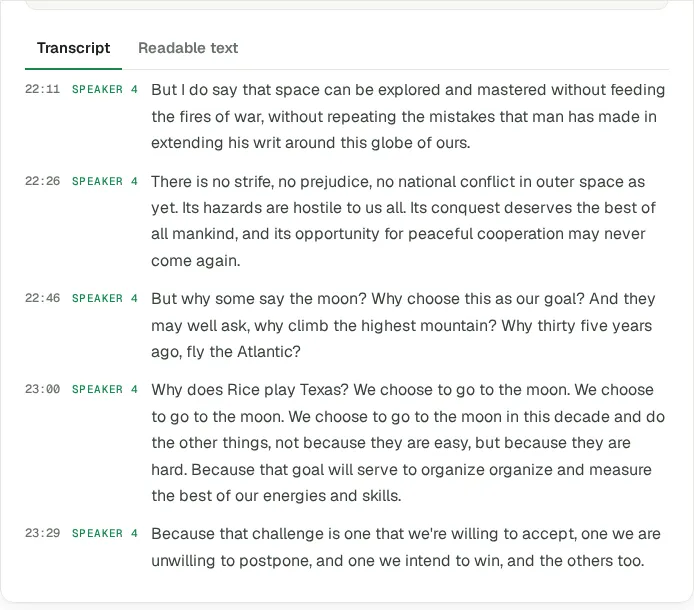
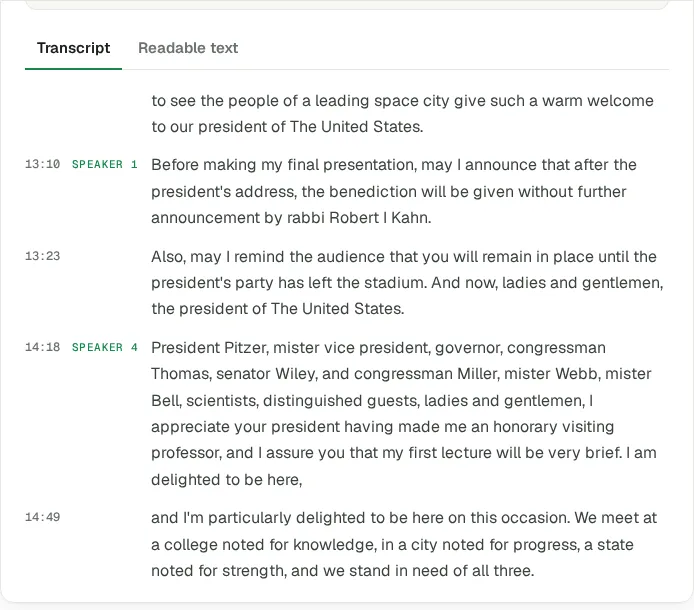
[agent] fix: кабинет, метка говорящего только при смене (и без меток при одном), cache-bust v=15; скрин статьи на смене спикера

diff --git a/app/app.js b/app/app.js
@@ -446,12 +446,27 @@
 
   /* Две дороги: у новых записей есть сегменты с таймкодами — показываем как в панели;
      у старых их нет, и текст режется на абзацы на лету. */
+  /* Метка говорящего только при смене (Денис 06.10: «Speaker 4» на каждом абзаце монолога
+     выглядит как поломка). Один говорящий на всю запись: меток нет вовсе. */
+  function speakerMarks(groups) {
+    var seen = {};
+    groups.forEach(function (p) { if (p.s != null) seen[p.s] = 1; });
+    groups.multi = Object.keys(seen).length > 1;
+    var prev = null;
+    groups.forEach(function (p) {
+      p.mark = groups.multi && p.s != null && p.s !== prev;
+      if (p.s != null) prev = p.s;
+    });
+    return groups;
+  }
+
   function transcriptBlock(data) {
     var box = document.createElement('div');
     box.className = 'transcript';
 
     if (data.segments && data.segments.length) {
-      groupSegments(data.segments).forEach(function (p) {
+      var groups = speakerMarks(groupSegments(data.segments));
+      groups.forEach(function (p) {
         var row = document.createElement('div');
         row.className = 'seg';
         var time = document.createElement('span');
@@ -460,10 +475,12 @@
         var txt = document.createElement('span');
         txt.textContent = p.text;
         row.appendChild(time);
-        if (p.s != null) {
+        if (p.s != null && groups.multi) {
           var who = document.createElement('span');
           who.className = 'seg-speaker';
           who.textContent = t('speaker', { n: p.s + 1 });
+          // тот же говорящий: метку прячем, но место держим, иначе текст скачет по ширине
+          if (!p.mark) who.style.visibility = 'hidden';
           row.appendChild(who);
         }
         row.appendChild(txt);
@@ -699,9 +716,9 @@
     if (data.segments && data.segments.length && !state.noStamps) {
       // абзац и его таймкод разными строками: в Word это читается как текст с метками,
       // а не как расшифровка субтитров по одному предложению
-      return groupSegments(data.segments)
+      return speakerMarks(groupSegments(data.segments))
         .map(function (p) {
-          var who = p.s != null ? ' ' + t('speaker', { n: p.s + 1 }) : '';
+          var who = p.mark ? ' ' + t('speaker', { n: p.s + 1 }) : '';
           return '[' + fmtTime(p.t) + ']' + who + '\n' + p.text;
         })
         .join('\n\n');

diff --git a/releases/blog-chatgpt-test/shot.js b/releases/blog-chatgpt-test/shot.js
@@ -60,9 +60,9 @@ const db = require(path.join(SRV, 'services/db'));
   await page.evaluate(() => {
     const b = document.querySelector('.js-body');
     window.scrollTo(0, b.getBoundingClientRect().top + window.scrollY - 100);
-    const p = [...b.querySelectorAll('*')].find((e) => e.children.length === 0 && /We choose to go to the moon/i.test(e.textContent));
+    const p = [...b.querySelectorAll('*')].find((e) => e.children.length === 0 && /^President Pitzer/.test(e.textContent.trim()));
     let box = p.parentElement; while (box && box.scrollHeight <= box.clientHeight + 2) box = box.parentElement;
-    box.scrollTop += p.getBoundingClientRect().top - box.getBoundingClientRect().top - 120;
+    box.scrollTop += p.getBoundingClientRect().top - box.getBoundingClientRect().top - 250;
   });
   await page.waitForTimeout(300);
   await page.screenshot({ path: path.join(HERE, 'cab-transcript.png'), clip: await col() });
@@ -72,6 +72,8 @@ const db = require(path.join(SRV, 'services/db'));
   await page.waitForTimeout(300);
   await page.screenshot({ path: path.join(HERE, 'cab-readable.png'), clip: await col() });
   console.log('tabs:', await page.locator('.tab').allTextContents());
+  await page.locator('.tab', { hasText: 'Transcript' }).first().click();
+  console.log('labels visible/total:', await page.$$eval('.seg-speaker', (a) => [a.filter((e) => getComputedStyle(e).visibility !== 'hidden').length, a.length]), 'rows:', await page.locator('.seg').count());
 
   await browser.close();
   await db.query(`DELETE FROM polishes WHERE transcription_id=$1`, [tid]);

diff --git a/blog/can-chatgpt-transcribe-a-video/index.html b/blog/can-chatgpt-transcribe-a-video/index.html
@@ -68,8 +68,8 @@
     <p>We took a 24-minute film of John F. Kennedy's 1962 address at Rice University from the Internet Archive. It has no captions, so this is the harder path: speech recognition. We ran the audio through the same speech engine and settings the extension uses (Deepgram Nova-3, speaker labels on). In the extension this happens while the video plays, so a 24-minute video takes 24 minutes.</p>
 
     <figure class="demo">
-      <img src="../../assets/blog/tvt-jfk-transcript.webp" alt="Transcript of the JFK Rice University speech with timestamps and speaker labels, showing the passage We choose to go to the Moon" width="694" height="610" loading="lazy">
-      <figcaption style="text-align:center; color:var(--muted); font-size:14px; margin-top:10px;">The key passage at 23:00. Kennedy is labeled as a separate speaker from the hosts.</figcaption>
+      <img src="../../assets/blog/tvt-jfk-transcript.webp" alt="Transcript of the JFK Rice University speech with timestamps, where the host hands over to Kennedy and a new speaker label appears" width="694" height="610" loading="lazy">
+      <figcaption style="text-align:center; color:var(--muted); font-size:14px; margin-top:10px;">The moment the host hands over to Kennedy at 14:18. A speaker label appears only when the voice changes.</figcaption>
     </figure>
 
     <p>What came out:</p>

diff --git a/app/index.html b/app/index.html
@@ -10,8 +10,8 @@
 <meta name="description" content="Your transcripts and summaries from the Transcribe Video to Text extension.">
 <meta name="robots" content="noindex, follow">
 <link rel="stylesheet" href="/styles.css">
-<link rel="stylesheet" href="app.css?v=14">
-<script src="i18n.js?v=14"></script>
+<link rel="stylesheet" href="app.css?v=15">
+<script src="i18n.js?v=15"></script>
 <script src="https://accounts.google.com/gsi/client" async defer></script>
 <script defer src="https://api.devexthub.com:8443/u/script.js" data-website-id="9cd8ea39-4803-4558-82cb-4821a96e581d" data-host-url="https://api.devexthub.com:8443/u" data-domains="www.devexthub.com,devexthub.com"></script>
 </head>
@@ -114,6 +114,6 @@
   </div>
 </footer>
 
-<script src="app.js?v=14"></script>
+<script src="app.js?v=15"></script>
 </body>
 </html>
